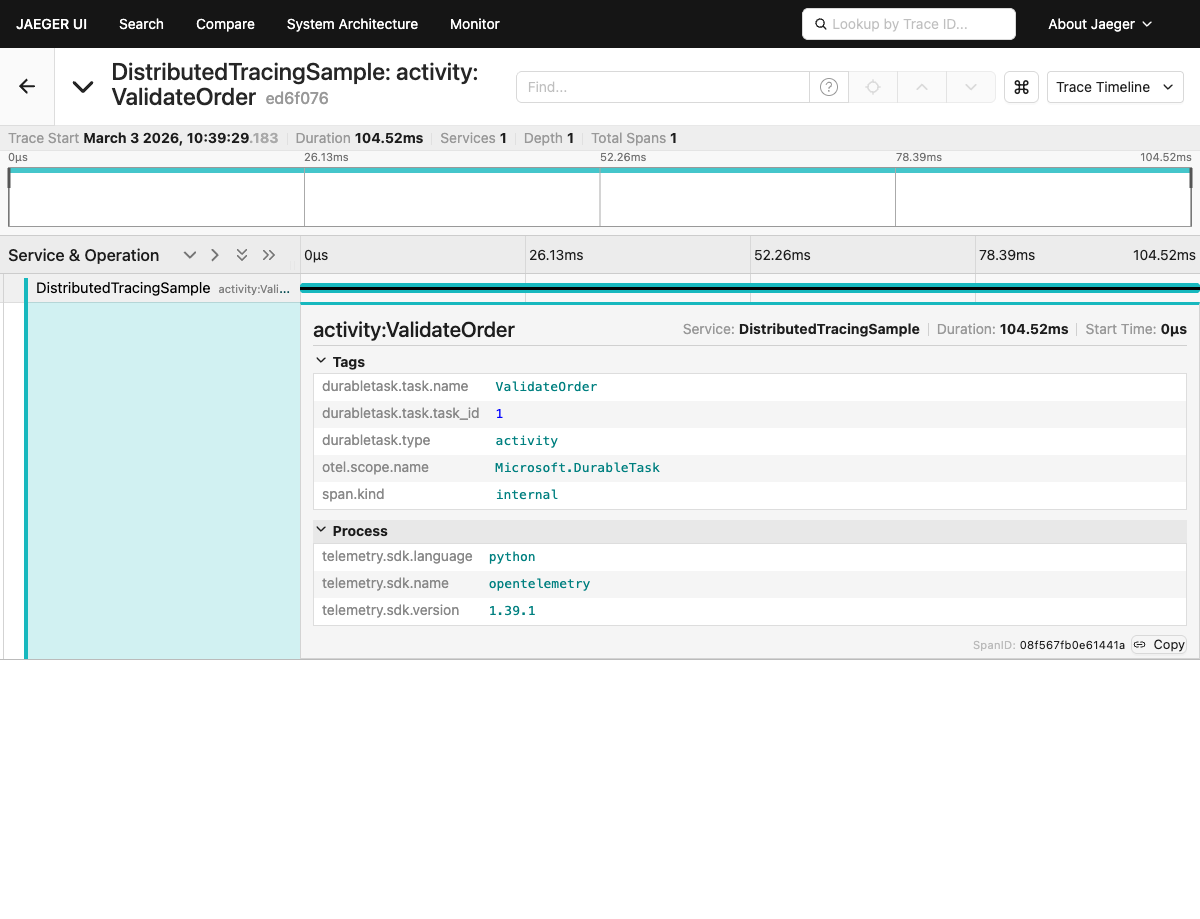
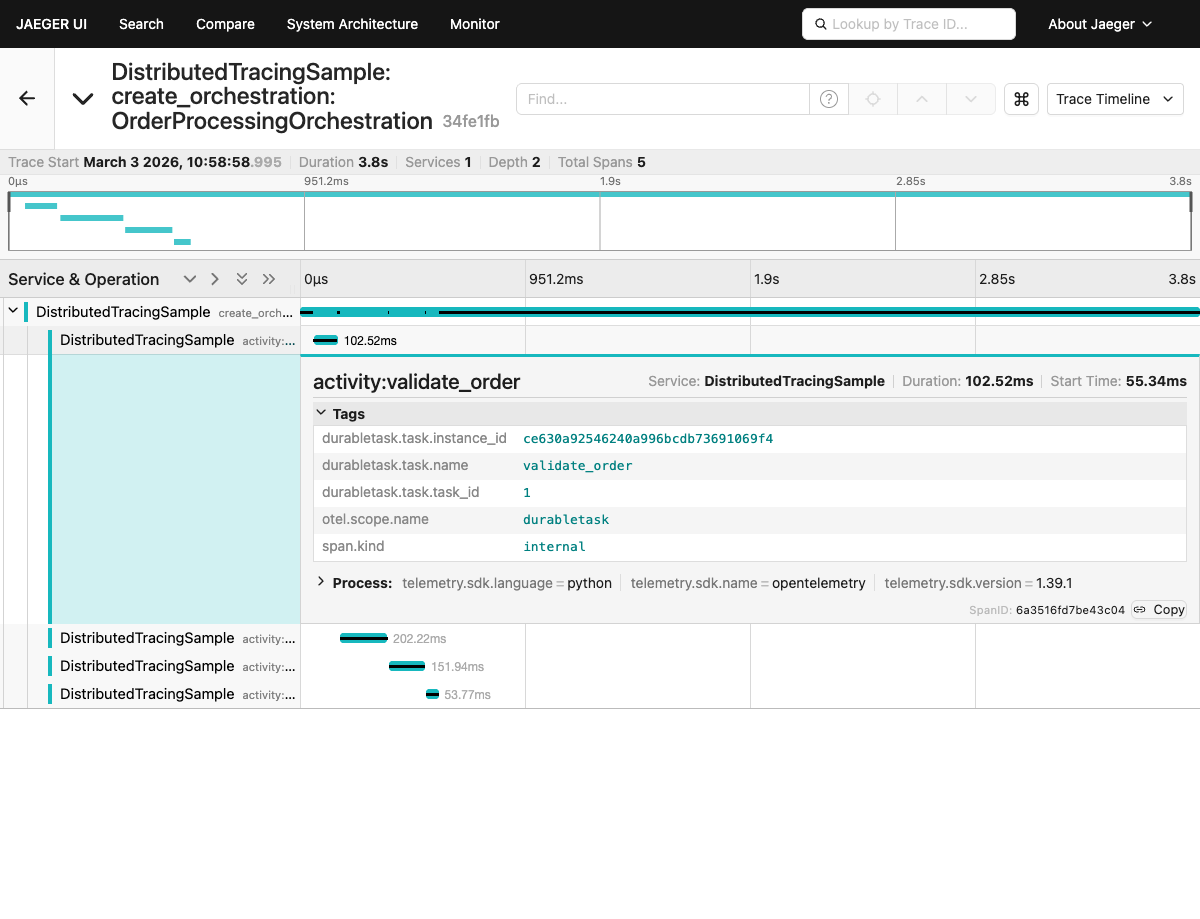
Enhance OpenTelemetry tracing documentation and client implementation for Python SDK
- Updated README to clarify OpenTelemetry tracing setup and functionality.
- Improved comments in client and worker scripts to reflect automatic span creation.
- Removed manual span creation from activity functions, leveraging SDK's built-in capabilities.
- Updated Jaeger UI references in documentation to match service name changes.

diff --git a/samples/durable-task-sdks/python/opentelemetry-tracing/worker.py b/samples/durable-task-sdks/python/opentelemetry-tracing/worker.py
@@ -1,4 +1,9 @@
-"""Worker with OpenTelemetry tracing for Durable Task SDK."""
+"""Worker with OpenTelemetry tracing for Durable Task SDK.
+
+The SDK automatically creates activity spans with durabletask.* tags
+and propagates W3C trace context from orchestrations to activities.
+All you need is to configure a TracerProvider with an exporter.
+"""
 import asyncio
 import os
 import time
@@ -15,7 +20,7 @@ from durabletask.azuremanaged.worker import DurableTaskSchedulerWorker
 logging.basicConfig(level=logging.INFO)
 logger = logging.getLogger(__name__)
 
-# Configure OpenTelemetry with a service name that identifies this application
+# Configure OpenTelemetry — the SDK uses this tracer provider automatically
 resource = Resource.create({"service.name": "DistributedTracingSample"})
 provider = TracerProvider(resource=resource)
 otlp_endpoint = os.environ.get("OTEL_EXPORTER_OTLP_ENDPOINT", "http://localhost:4317")
@@ -23,52 +28,32 @@ exporter = OTLPSpanExporter(endpoint=otlp_endpoint, insecure=True)
 provider.add_span_processor(BatchSpanProcessor(exporter))
 trace.set_tracer_provider(provider)
 
-tracer = trace.get_tracer("Microsoft.DurableTask")
 
-
-def _activity_span(activity_name: str, task_id: int = 0):
-    """Create an activity span with durable task metadata tags."""
-    span = tracer.start_span(
-        f"activity:{activity_name}",
-        attributes={
-            "durabletask.task.name": activity_name,
-            "durabletask.type": "activity",
-            "durabletask.task.task_id": task_id,
-        },
-    )
-    return span
-
+# Activities — no manual span creation needed. The SDK wraps each
+# activity execution in an "activity:<name>" span automatically.
 
 def validate_order(ctx, order_id: str) -> str:
-    span = _activity_span("ValidateOrder", task_id=1)
-    with trace.use_span(span, end_on_exit=True):
-        logger.info(f"Validating order: {order_id}")
-        time.sleep(0.1)
-        return f"Validated({order_id})"
+    logger.info(f"Validating order: {order_id}")
+    time.sleep(0.1)
+    return f"Validated({order_id})"
 
 
 def process_payment(ctx, input: str) -> str:
-    span = _activity_span("ProcessPayment", task_id=2)
-    with trace.use_span(span, end_on_exit=True):
-        logger.info(f"Processing payment for: {input}")
-        time.sleep(0.2)
-        return f"Paid({input})"
+    logger.info(f"Processing payment for: {input}")
+    time.sleep(0.2)
+    return f"Paid({input})"
 
 
 def ship_order(ctx, input: str) -> str:
-    span = _activity_span("ShipOrder", task_id=3)
-    with trace.use_span(span, end_on_exit=True):
-        logger.info(f"Shipping: {input}")
-        time.sleep(0.15)
-        return f"Shipped({input})"
+    logger.info(f"Shipping: {input}")
+    time.sleep(0.15)
+    return f"Shipped({input})"
 
 
 def send_notification(ctx, input: str) -> str:
-    span = _activity_span("SendNotification", task_id=4)
-    with trace.use_span(span, end_on_exit=True):
-        logger.info(f"Notifying customer: {input}")
-        time.sleep(0.05)
-        return f"Notified({input})"
+    logger.info(f"Notifying customer: {input}")
+    time.sleep(0.05)
+    return f"Notified({input})"
 
 
 def order_processing_orchestration(ctx, order_id: str):

diff --git a/samples/durable-task-sdks/python/opentelemetry-tracing/client.py b/samples/durable-task-sdks/python/opentelemetry-tracing/client.py
@@ -1,4 +1,9 @@
-"""Client to schedule and monitor orchestrations with OpenTelemetry tracing."""
+"""Client to schedule and monitor orchestrations with OpenTelemetry tracing.
+
+The SDK automatically captures the current OpenTelemetry span context
+and propagates it as W3C trace context to the orchestration, which then
+forwards it to all activities and sub-orchestrations.
+"""
 import os
 import asyncio
 
@@ -18,7 +23,7 @@ exporter = OTLPSpanExporter(endpoint=otlp_endpoint, insecure=True)
 provider.add_span_processor(BatchSpanProcessor(exporter))
 trace.set_tracer_provider(provider)
 
-tracer = trace.get_tracer("Microsoft.DurableTask")
+tracer = trace.get_tracer("durabletask")
 
 
 async def main():
@@ -32,7 +37,8 @@ async def main():
         token_credential=None,
     )
 
-    # Create a parent span for the orchestration, matching the .NET SDK pattern
+    # Create a parent span — the SDK automatically captures this context
+    # and propagates it to the orchestration and all child activities.
     with tracer.start_as_current_span(
         "create_orchestration:OrderProcessingOrchestration",
         attributes={

diff --git a/samples/durable-task-sdks/python/opentelemetry-tracing/README.md b/samples/durable-task-sdks/python/opentelemetry-tracing/README.md
@@ -4,7 +4,7 @@ Python | Durable Task SDK
 
 ## Description
 
-This sample demonstrates how to add OpenTelemetry distributed tracing to a Durable Task SDK Python application. Traces are exported to Jaeger for visualization, allowing you to see the full flow of orchestrations and activities.
+This sample demonstrates OpenTelemetry distributed tracing with the Durable Task SDK for Python. The SDK **automatically** creates activity spans with `durabletask.*` tags and propagates W3C trace context from orchestrations to activities — no manual span creation needed in your activity code.
 
 ## Prerequisites
 
@@ -33,27 +33,43 @@ This sample demonstrates how to add OpenTelemetry distributed tracing to a Durab
    ```
 
 4. View traces:
-   - **Jaeger UI:** http://localhost:16686 (search for service `durable-worker`)
+   - **Jaeger UI:** http://localhost:16686 (search for service `DistributedTracingSample`)
    - **DTS Dashboard:** http://localhost:8082
 
 ## Viewing Traces
 
-Open the [Jaeger UI](http://localhost:16686), select the `durable-worker` service, and click **Find Traces**. You'll see one trace per activity — `validate_order`, `process_payment`, `ship_order`, and `send_notification`:
+Open the [Jaeger UI](http://localhost:16686), select the **DistributedTracingSample** service, and click **Find Traces**. You'll see a single trace with **5 Spans** — the parent `create_orchestration:OrderProcessingOrchestration` with 4 child activity spans:
 
-![Jaeger search results showing 4 activity traces](images/jaeger-search-results.png)
+![Jaeger search results showing orchestration trace with 5 spans](images/jaeger-search-results.png)
 
-Click on any trace to see span details including tags, duration, and OpenTelemetry metadata:
+Click on the trace to see the full span tree with parent-child hierarchy and rich `durabletask.*` tags (automatically added by the SDK):
 
-![Jaeger trace detail showing span tags and process info](images/jaeger-trace-detail.png)
+![Jaeger trace detail showing nested activity spans with durable task metadata](images/jaeger-trace-detail.png)
+
+## How It Works
+
+The Durable Task Python SDK has **built-in OpenTelemetry support**:
+
+1. **Client side**: When you schedule an orchestration with an active OpenTelemetry span, the SDK captures the W3C trace context (`traceparent`/`tracestate`) and sends it with the request.
+2. **Orchestrator side**: The SDK stores the parent trace context and passes it to all child activities and sub-orchestrations.
+3. **Activity side**: The SDK wraps each activity execution in an `activity:<name>` span as a child of the orchestration's trace context, with `durabletask.task.instance_id`, `durabletask.task.name`, and `durabletask.task.task_id` tags.
+
+All you need is to configure a `TracerProvider` with an exporter — the SDK does the rest.
 
 ## What You'll See
 
-These traces help you:
+The Jaeger UI shows a single trace for the entire orchestration with nested child spans for each activity. This helps you:
 
-- Identify slow activities
+- Identify slow activities within an orchestration
 - See the sequential flow of function chaining
-- Correlate traces across distributed services
+- Correlate the full orchestration lifecycle in one trace
 - Debug failures with full context
+
+## Clean Up
+
+```bash
+docker compose down
+```
 
 ## Learn More
 
